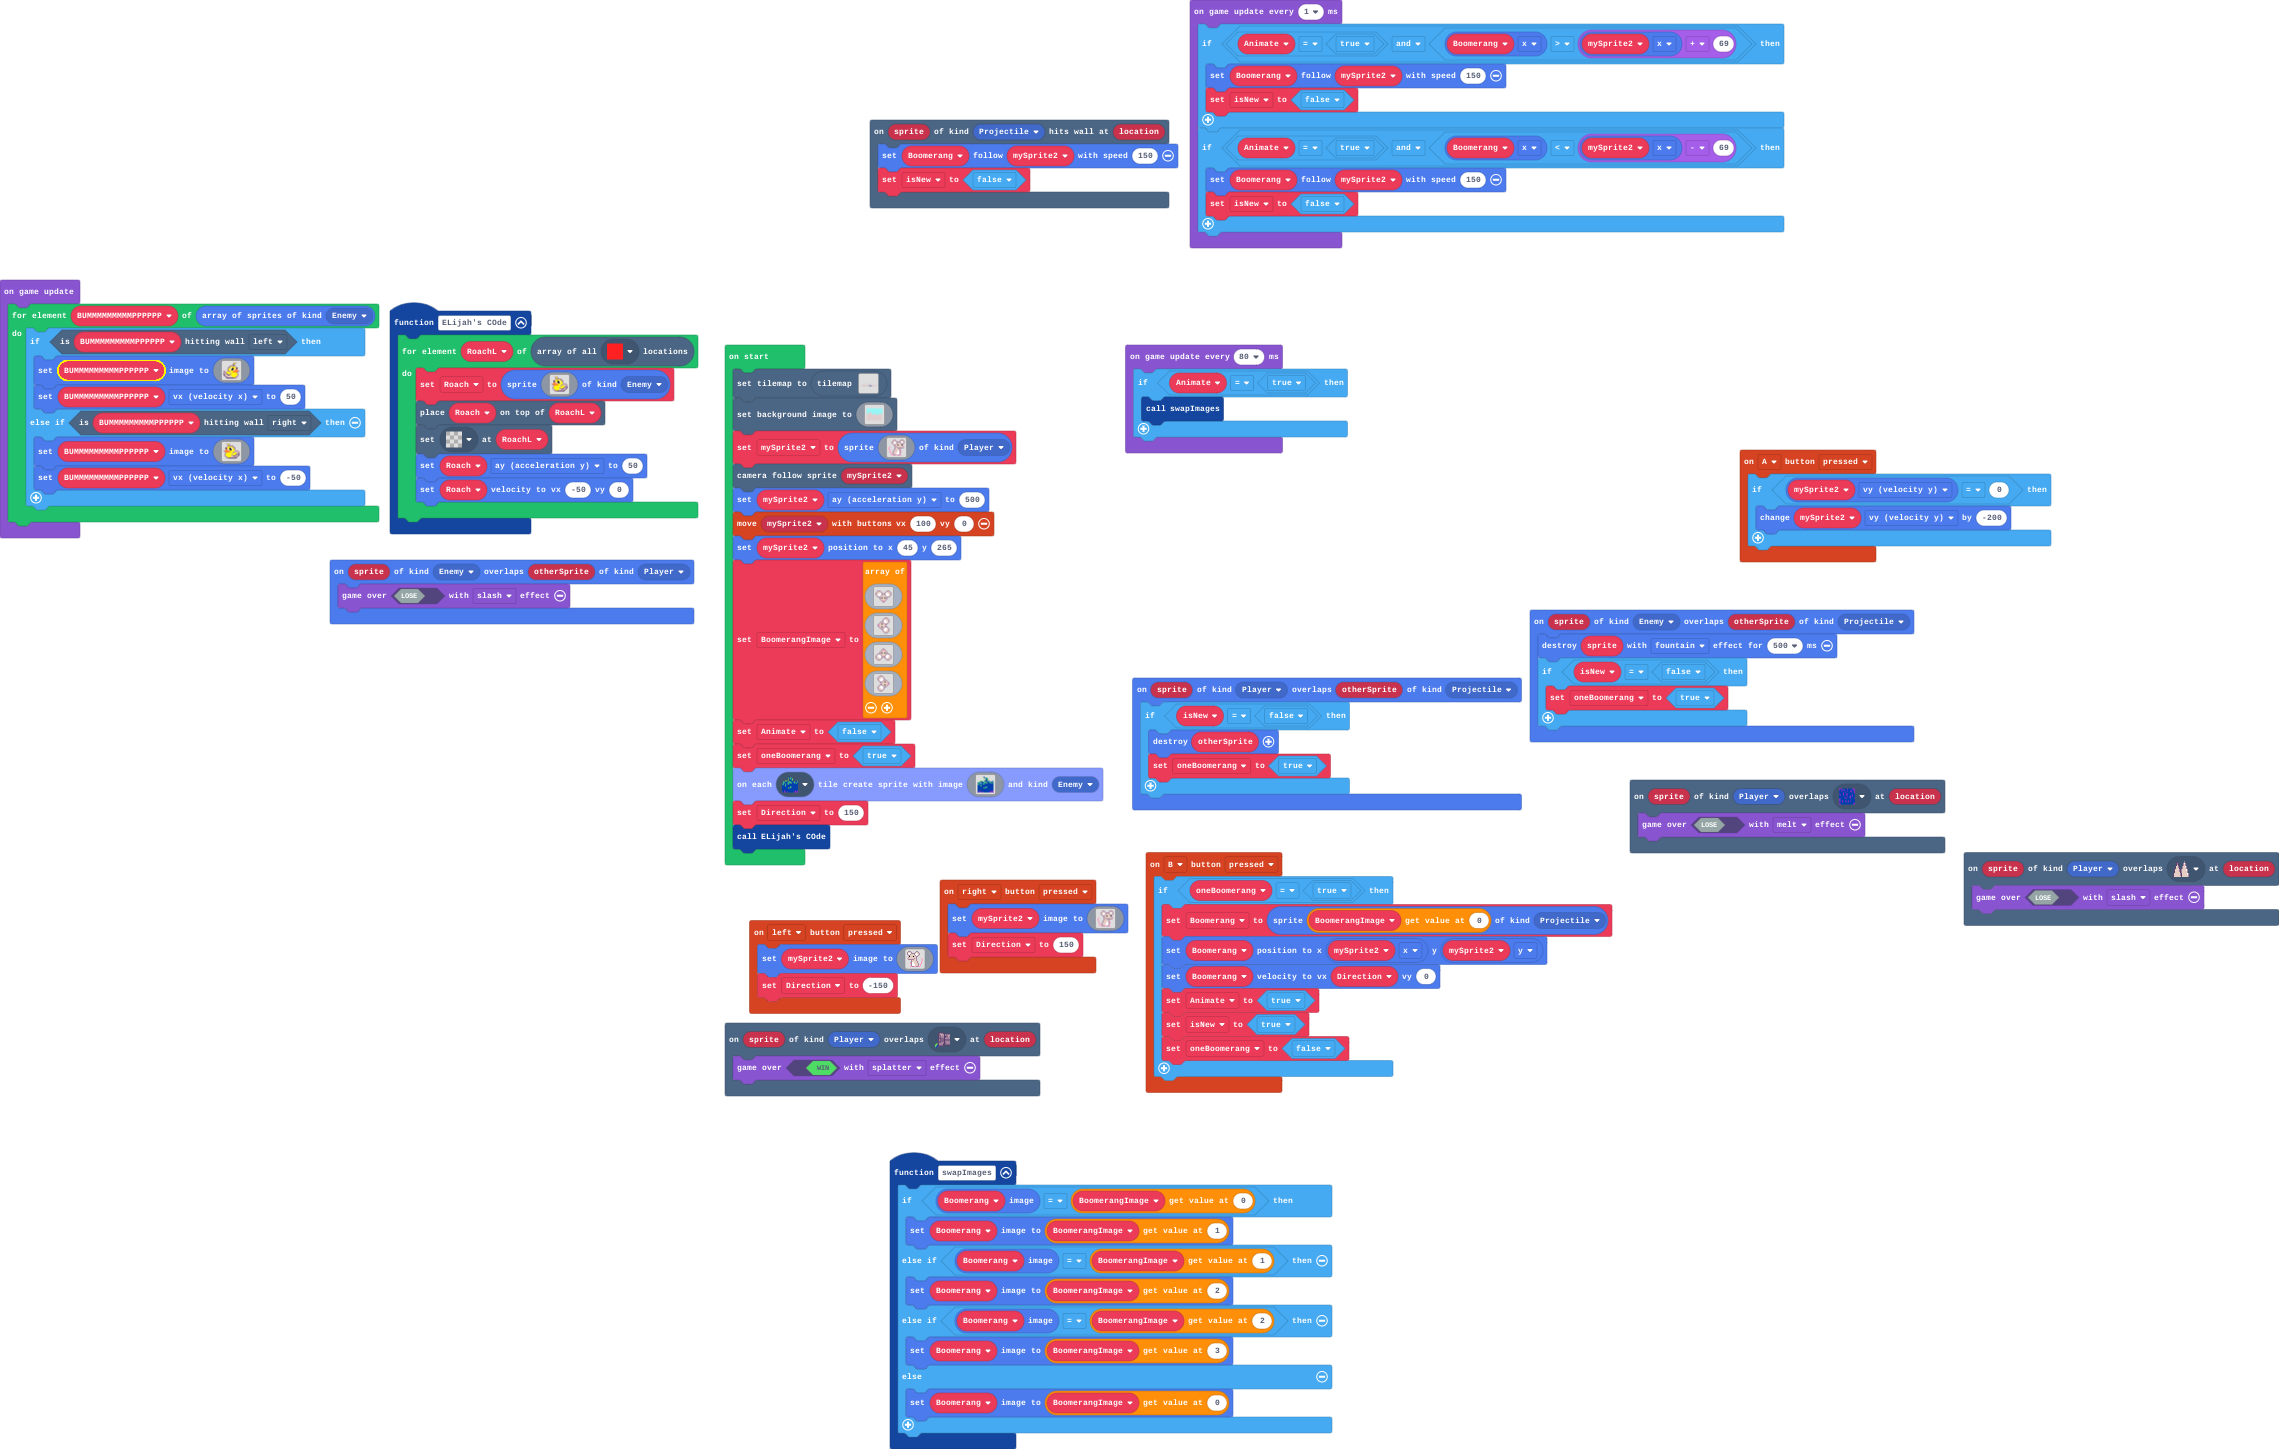
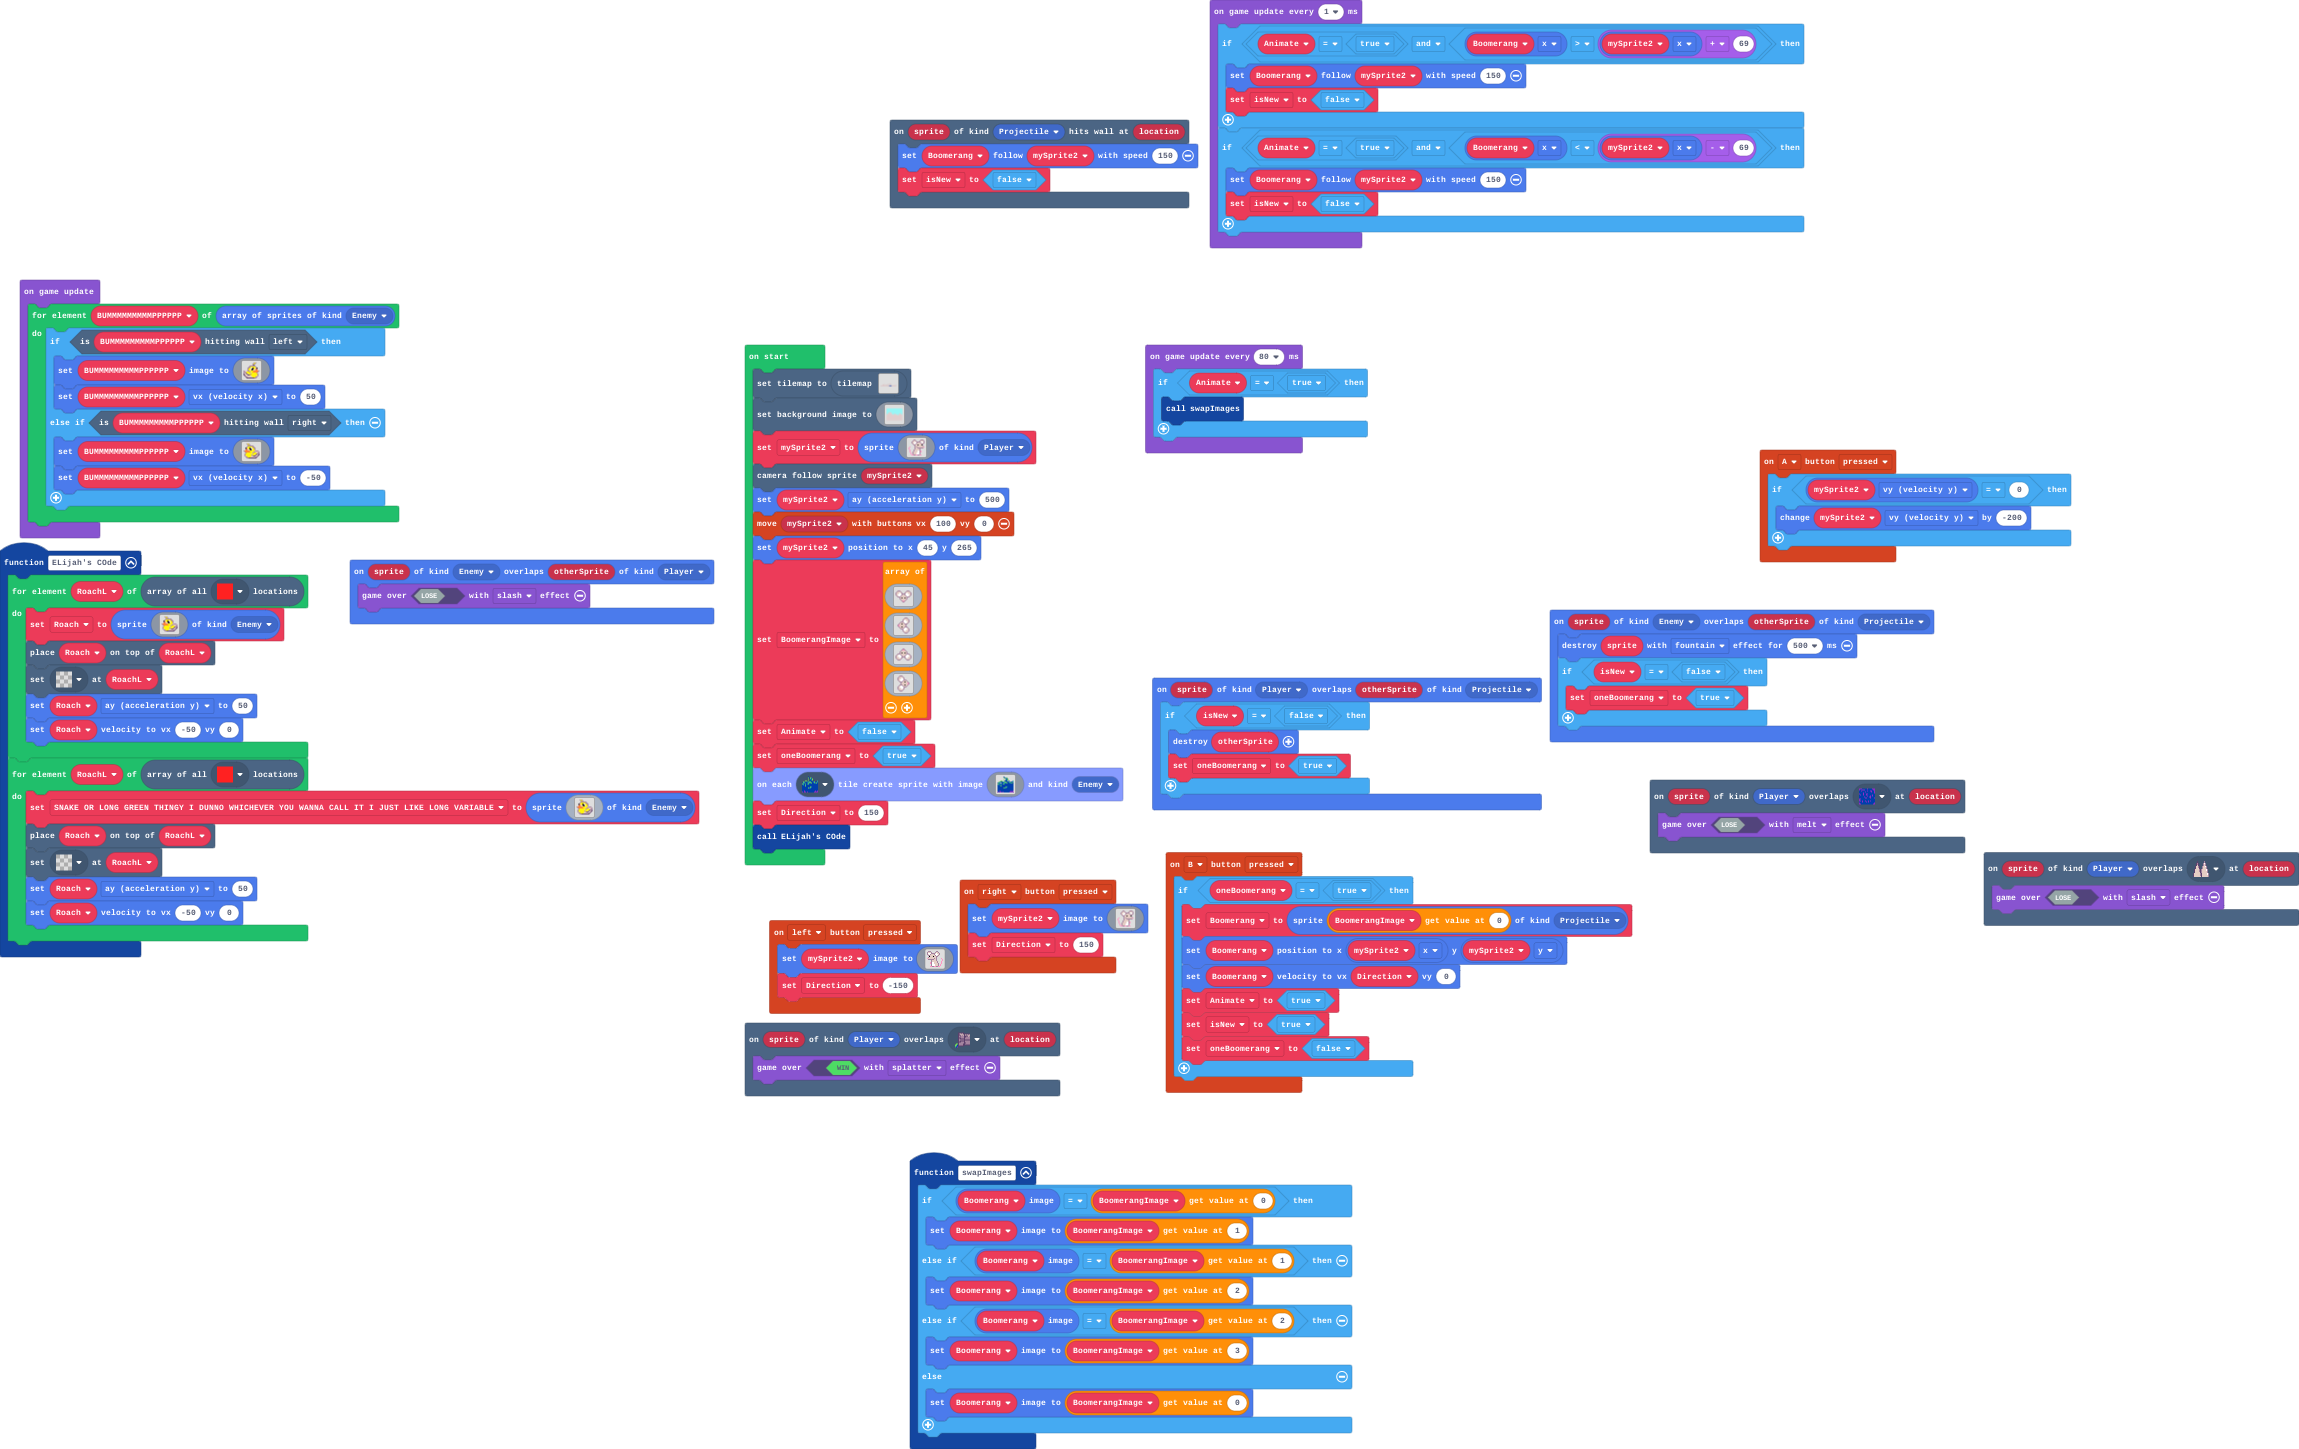
Update main.blocks, main.ts, images.g.jres, images.g.ts

diff --git a/images.g.ts b/images.g.ts
@@ -174,6 +174,82 @@ b 4 4 4 4 4 5 5 5 5 5 d b b b .
 . . . b b c c c c c c c c . . . 
 . . . . . . . . . . . . . . . . 
 `;
+            case "image10":
+            case "Snake Head":return img`
+. . . . . . . . . . . . . . . . 
+. . . . . . . . . . . . . . . . 
+. . . . . 7 7 7 7 7 7 7 f 7 7 7 
+. . 7 7 7 7 7 f f 7 7 7 f f 7 7 
+. . 7 7 7 7 f f 7 7 7 7 7 f 7 7 
+. 7 7 7 7 f f 7 7 7 7 7 7 7 f 7 
+. 7 7 7 7 7 7 f 7 7 7 7 7 7 f 7 
+. 7 7 7 7 7 7 7 7 7 7 7 7 7 f 7 
+. 7 7 7 7 7 7 7 7 7 7 7 7 7 7 f 
+. 7 7 7 7 7 7 7 7 7 7 7 7 7 7 f 
+. . 7 f f f f f 7 7 7 7 7 7 7 f 
+. . f f 7 7 7 f f 7 7 7 7 7 7 7 
+. . . . 7 7 7 7 f f 7 7 7 7 7 7 
+. . . . . . 7 7 7 7 7 7 7 7 7 7 
+. . . . . . . . . . . . . . . . 
+. . . . . . . . . . . . . . . . 
+`;
+            case "image11":
+            case "Greenthing body 1":return img`
+. . . . . . . . . . . . . . . . 
+. . . . . . . . . . . . . . . . 
+7 7 f 7 7 7 7 7 f 7 7 7 f 7 7 7 
+7 7 f f 7 7 7 7 7 f 7 7 7 f 7 7 
+7 7 7 f 7 7 7 7 7 f f 7 7 f f 7 
+7 7 7 7 f 7 7 7 7 7 f 7 7 7 f f 
+7 7 7 7 f 7 7 7 7 7 f f 7 7 7 f 
+7 7 7 7 7 f 7 7 7 7 7 f 7 7 7 7 
+7 7 7 7 7 f f 7 7 7 7 7 f 7 7 7 
+f 7 7 7 7 7 f 7 7 7 7 7 f 7 7 7 
+f f 7 7 7 7 f f 7 7 7 7 7 f 7 7 
+7 f 7 7 7 7 7 f 7 7 7 7 7 f f 7 
+7 f f 7 7 7 7 f f 7 7 7 7 7 f 7 
+7 7 f 7 7 7 7 7 f 7 7 7 7 7 f f 
+. . . . . . . . . . . . . . . . 
+. . . . . . . . . . . . . . . . 
+`;
+            case "image12":
+            case "LOng boi 2":return img`
+. . . . . . . . . . . . . . . . 
+. . . . . . . . . . . . . . . . 
+7 7 f 7 7 7 7 7 f 7 7 7 7 f f 7 
+7 7 7 f f 7 7 7 7 f f 7 7 7 f f 
+7 7 7 7 f 7 7 7 7 7 7 f 7 7 7 f 
+f 7 7 7 7 f 7 7 7 7 7 f f 7 7 7 
+f 7 7 7 7 7 f 7 7 7 7 7 f 7 7 7 
+7 f 7 7 7 7 f f 7 7 7 7 7 f 7 7 
+7 f 7 7 7 7 7 f f 7 7 7 7 f 7 7 
+7 7 f 7 7 7 7 7 f f 7 7 7 7 f 7 
+7 7 f f 7 7 7 7 7 f f 7 7 7 f f 
+7 7 7 f f 7 7 7 7 7 f 7 7 7 7 f 
+7 7 7 7 f 7 7 7 7 7 f f 7 7 7 f 
+7 7 7 7 7 f 7 7 7 7 7 7 7 7 7 7 
+. . . . . . . . . . . . . . . . 
+. . . . . . . . . . . . . . . . 
+`;
+            case "image13":
+            case "myImage":return img`
+. . . . . . . . . . . . . . . . 
+. . . . . . . . . . . . . . . . 
+7 7 7 f 7 7 7 7 7 7 e e . . . . 
+f 7 7 7 f f 7 7 7 7 e e . . . . 
+f f 7 7 7 f 7 7 7 e d e e . . . 
+7 f 7 7 7 f f 7 7 e e d e d . . 
+7 f f 7 7 7 f 7 7 e e d e d . . 
+7 7 f 7 7 7 f f e e e e d d . . 
+7 7 f f 7 7 7 7 e d e e d . . . 
+7 7 7 f 7 7 7 7 e e e e d . . . 
+7 7 7 f 7 7 7 7 e e d e d . . . 
+7 7 7 f f 7 7 7 d e e d . . . . 
+7 7 7 7 f 7 7 7 e e e . . . . . 
+7 7 7 7 7 f 7 7 e e e . . . . . 
+. . . . . . . . . . . . . . . . 
+. . . . . . . . . . . . . . . . 
+`;
         }
         return null;
     })

diff --git a/main.ts b/main.ts
@@ -68,7 +68,15 @@ function ELijahs_COde () {
         Roach.ay = 50
         Roach.setVelocity(-50, 0)
     }
+    for (let RoachL of tiles.getTilesByType(assets.tile`Roach`)) {
+        SNAKE_OR_LONG_GREEN_THINGY_I_DUNNO_WHICHEVER_YOU_WANNA_CALL_IT_I_JUST_LIKE_LONG_VARIABLE = sprites.create(assets.image`Roach other direction`, SpriteKind.Enemy)
+        tiles.placeOnTile(Roach, RoachL)
+        tiles.setTileAt(RoachL, assets.tile`transparency16`)
+        Roach.ay = 50
+        Roach.setVelocity(-50, 0)
+    }
 }
+let SNAKE_OR_LONG_GREEN_THINGY_I_DUNNO_WHICHEVER_YOU_WANNA_CALL_IT_I_JUST_LIKE_LONG_VARIABLE: Sprite = null
 let Roach: Sprite = null
 let isNew = false
 let Boomerang: Sprite = null
